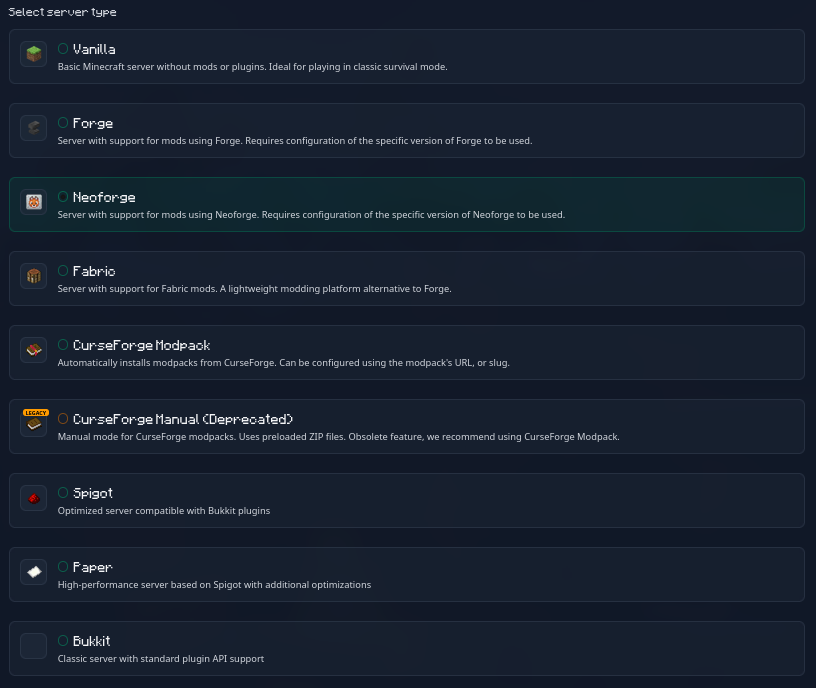
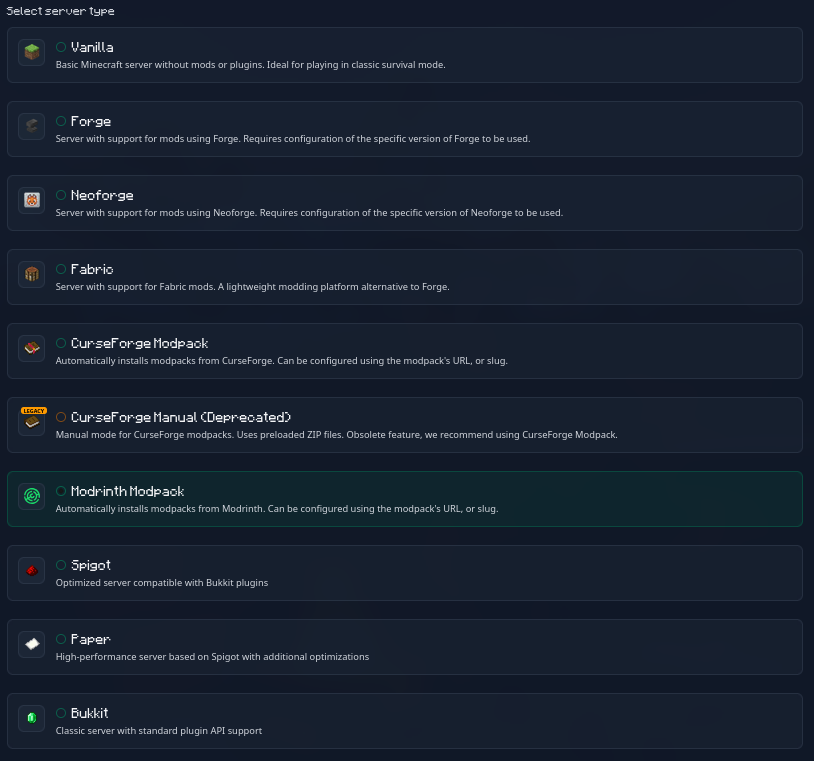
docs: add modrinth modpack details

diff --git a/doc/mods-plugins.md b/doc/mods-plugins.md
@@ -73,6 +73,7 @@ Automatically download and manage mods, plugins, and datapacks from [Modrinth](h
 - ✅ Forge
 - ✅ Neoforge
 - ✅ CurseForge (AUTO_CURSEFORGE)
+- ✅ Modrinth Modpacks
 
 ### How to Add Mods from Minepanel
 
@@ -205,6 +206,35 @@ environment:
 
 </details>
 
+## Modrinth Modpacks {#modrinth-modpacks}
+
+Install complete modpacks from [Modrinth](https://modrinth.com) using the **MODRINTH_MODPACK** server type.
+
+### Installation Methods in Minepanel
+
+When creating/editing a server with type **MODRINTH_MODPACK**, there is one method which can be used in several ways.
+
+| Method                | Auto-updates? | Use case                                  |
+| --------------------- | ------------- | ----------------------------------------- |
+| **Slug**              | ✅ Yes         | Always gets the latest compatible version |
+| **URL**               | ✅ Yes         | Always gets the latest compatible version |
+| **URL with verison**  | ✅ No          | Locks to the specified version            |
+
+**Slug**
+
+1. Enter the modpack project slug (e.g., `surface-living`) into the Modrinth Modpack field
+3. On each server start, it downloads the **latest compatible version**
+
+**Url**
+
+1. Enter the modpack project URL (e.g., `https://modrinth.com/modpack/surface-living`)
+2. On each server start, it downloads the **latest compatible version**
+
+**Url (version locked)**
+
+1. Enter the modpack project URL for a specific version (e.g., `https://modrinth.com/modpack/surface-living/version/1.2.1`)
+2. On each server start, it will **ignore any updated version** of the modpack
+
 ## CurseForge Modpacks {#curseforge-modpacks}
 
 Install complete modpacks from [CurseForge](https://www.curseforge.com) using the **AUTO_CURSEFORGE** server type.
@@ -219,9 +249,9 @@ When creating/editing a server with type **AUTO_CURSEFORGE**, you can choose bet
 
 | Method   | Auto-updates? | Use case                                 |
 | -------- | ------------- | ---------------------------------------- |
-| **URL**  | ✅ Yes        | Always get the latest compatible version |
-| **Slug** | ❌ No         | Lock to a specific file version          |
-| **File** | ❌ No         | Use a local modpack zip file             |
+| **URL**  | ✅ Yes         | Always get the latest compatible version |
+| **Slug** | ❌ No          | Lock to a specific file version          |
+| **File** | ❌ No          | Use a local modpack zip file             |
 
 ### Method: URL (Recommended for auto-updates)
 
@@ -267,8 +297,6 @@ Useful for modpacks downloaded manually or custom modpacks.
 ### Browse Modpacks
 
 Minepanel includes a **Browse** button to search CurseForge modpacks directly from the UI. Click it to find and select modpacks without leaving the panel.
-
----
 
 ## CurseForge Files (Individual Mods) {#curseforge-files}
 

diff --git a/doc/server-types.md b/doc/server-types.md
@@ -309,6 +309,36 @@ Another Paper fork with optimizations.
 | ------ | ------------ | -------------- | ------- |
 | Build  | `LEAF_BUILD` | Specific build | Latest  |
 
+## Modrinth Modpacks
+
+Install complete modpacks from Modrinth.
+
+### Installation Methods
+
+**1. Slug:**
+
+```yaml
+environment:
+  TYPE: MODRINTH
+  MODRINTH_MODPACK: surface-living
+```
+
+**2. URL:**
+
+```yaml
+environment:
+  TYPE: MODRINTH
+  MODRINTH_MODPACK: https://modrinth.com/modpack/surface-living
+```
+
+**2. URL (with version locking):**
+
+```yaml
+environment:
+  TYPE: MODRINTH
+  MODRINTH_MODPACK: https://modrinth.com/modpack/surface-living/version/1.2.1
+```
+
 ## CurseForge Modpacks
 
 Install complete modpacks from CurseForge.
